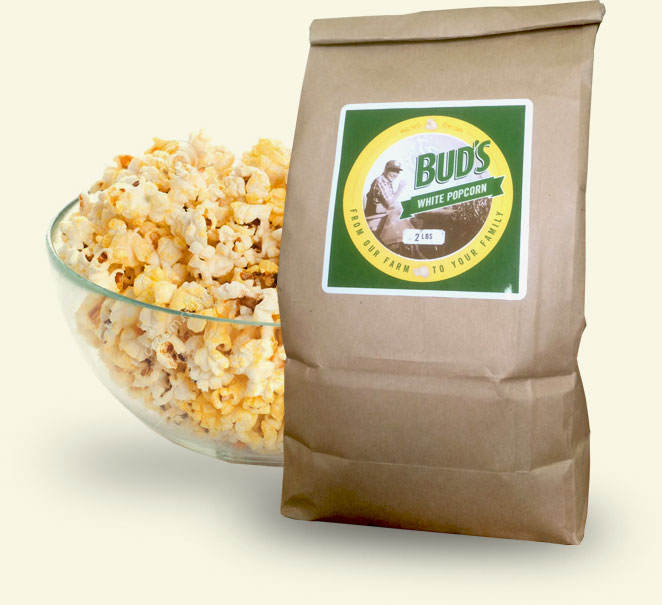
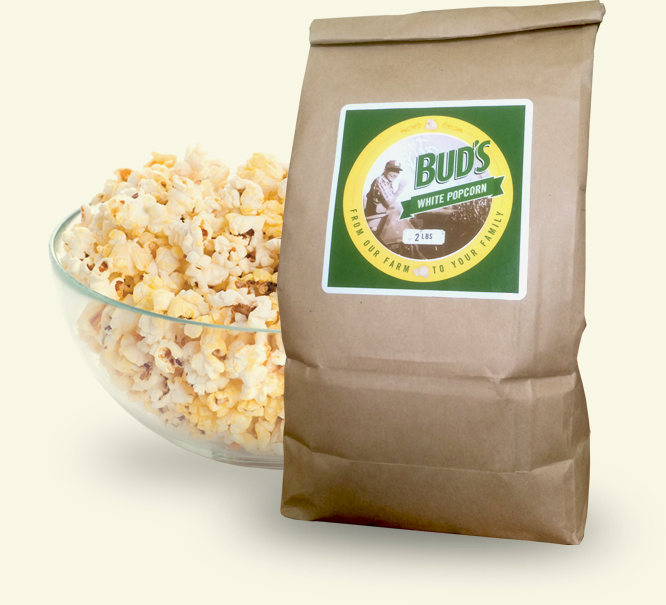
New popcorn bag/bowl image / update popcorn bag col padding

diff --git a/wp-content/themes/buds/style.css b/wp-content/themes/buds/style.css
@@ -912,6 +912,10 @@ input[type="submit"].btn, button.btn {
   background: #f8f6e5 url('assets/images/popped-corn.jpg?1429559264') no-repeat center center;
 }
 
+.col-bag-bowl {
+  padding: 0;
+}
+
 .popcorn p,
 .popcorn ul {
   margin-bottom: 24px;

diff --git a/wp-content/themes/buds/assets/sass/sections/_popcorn.scss b/wp-content/themes/buds/assets/sass/sections/_popcorn.scss
@@ -30,6 +30,10 @@
   background: $creme $popped-corn no-repeat center center;
 }
 
+.col-bag-bowl {
+  padding: 0;
+}
+
 .popcorn p,
 .popcorn ul {
   margin-bottom: $base;

diff --git a/wp-content/themes/buds/assets/js/scripts.js b/wp-content/themes/buds/assets/js/scripts.js
@@ -63,7 +63,6 @@ $(function(){
   mobileNav();
 
   $('.modal-body').optiscroll({
-/*     preventParentScroll: true, */
     forceScrollbars: true
   });
 

diff --git a/wp-content/themes/buds/partials/popcorn.php b/wp-content/themes/buds/partials/popcorn.php
@@ -1,6 +1,6 @@
 		<section id="popcorn" class="popcorn">
 		  <div class="wrapper row">
-		    <div class="col-1-2">
+		    <div class="col-1-2 col-bag-bowl">
 		      <img src="/wp-content/themes/buds/assets/images/popcorn.jpg" alt="Popcorn">
 		    </div>
 		    <div class="col-1-2">
